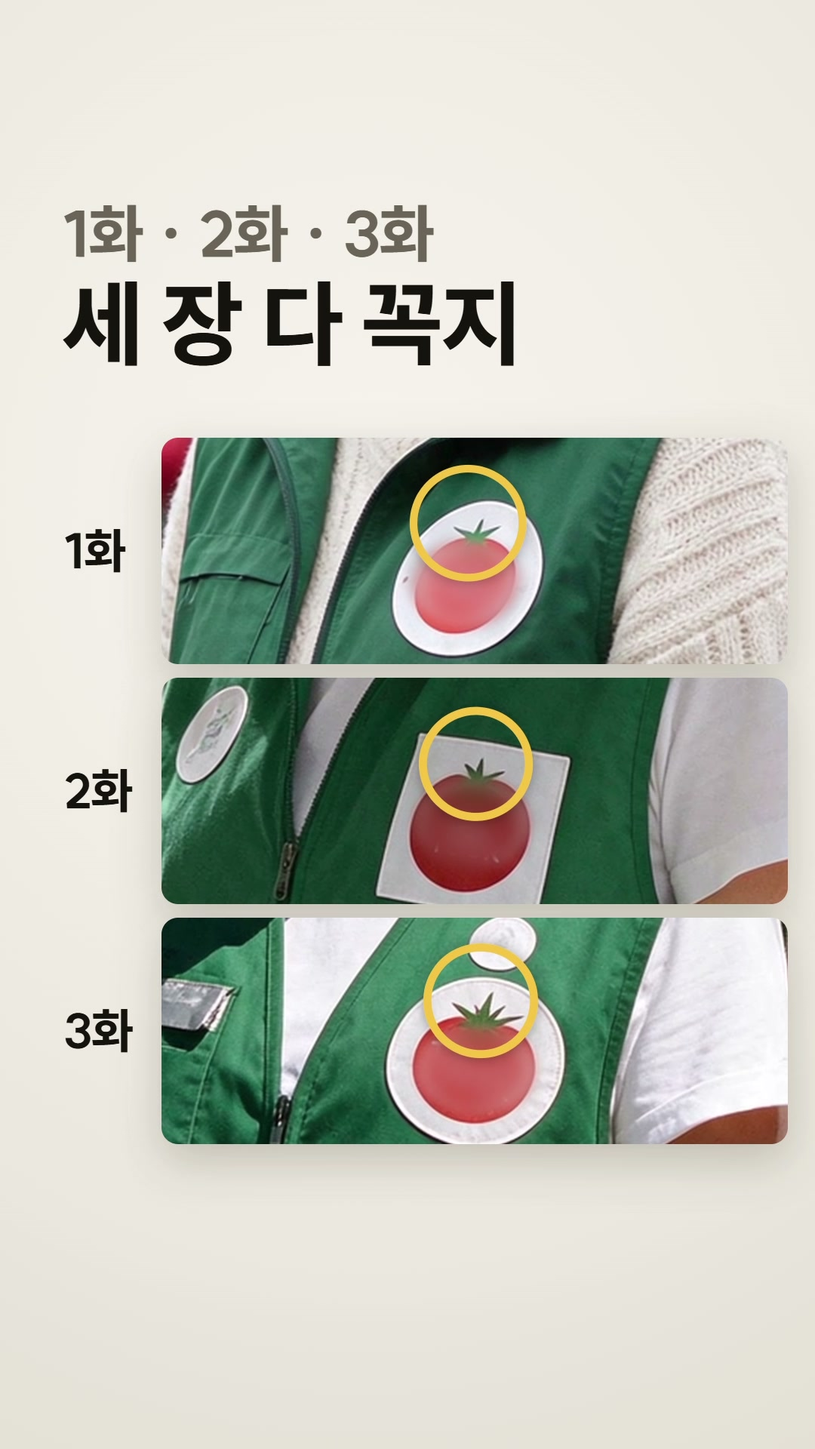
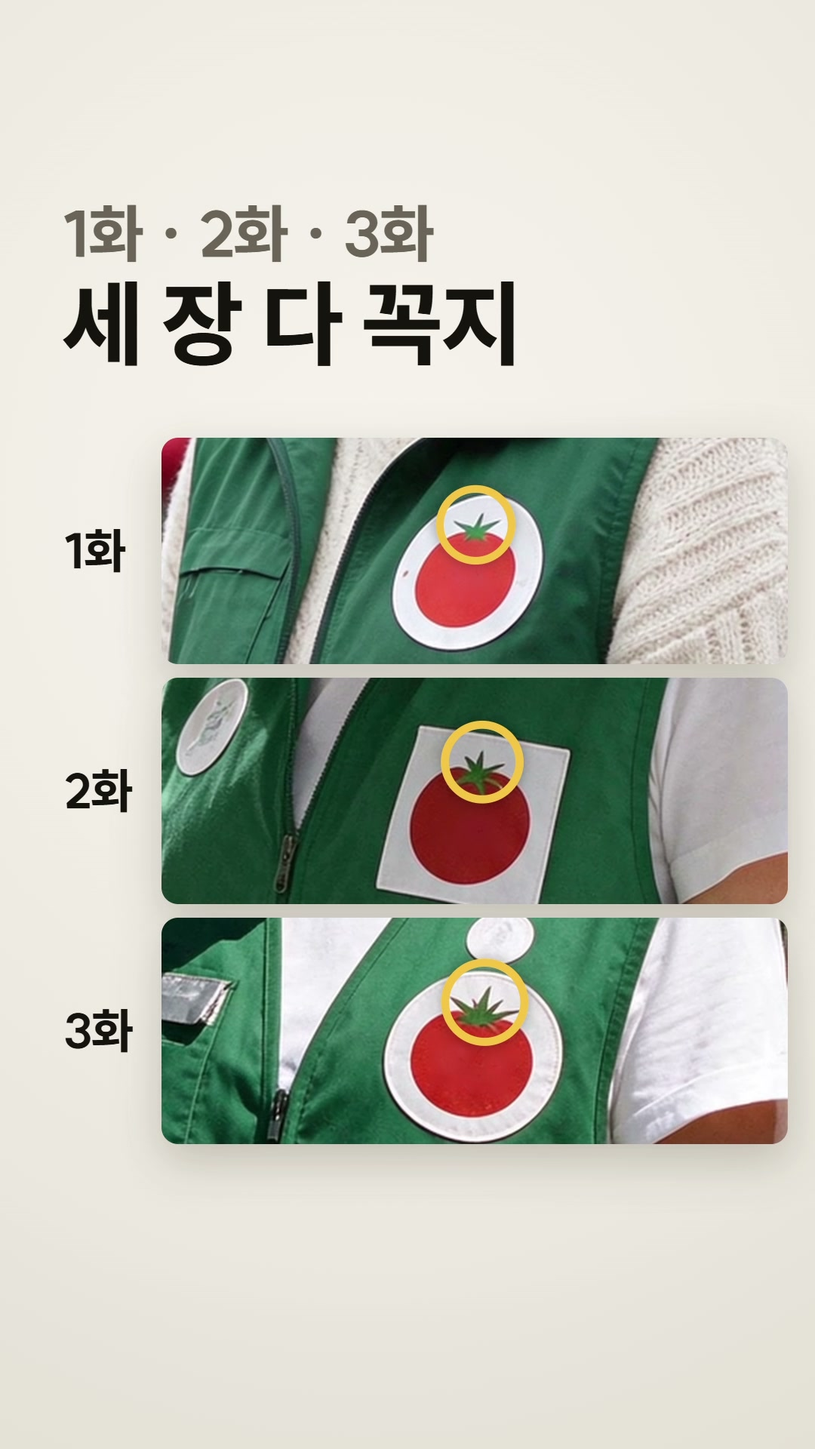
yuhobuilds Y73 최종 확인 미흡 고친 판 r12(07시 회차가 이어서): 마크 글자를 흐리지 않고 빨간 원 안의 글자 자리만 둘레 빨강으로 메워 끝 세 장 · 첫 패치가 매끈한 빨강으로 보인다. 끝 세 장이 고친 판으로 바뀌는 때를 마지막 말 뒤 33.0 · 33.5 · 34.0초로 벌리고 닫는 소리를 넣었다. 「토마토를 불러온 것 같아요」를 큰 글 두 줄로 키우고 저장 카드 줄을 한 박씩 당겨 레몬 줄이 1초 보인다. 앞서 카본 맹검의 제작 실수 넷(테 자리 · 지우개 막대 · 영어 중복 · 겹친 취소선)도 함께 올린다
관련 시험 건너뜀: 바쁜 PC에서 묶음 안 시간 제한으로 깨짐(자리 기다림 451초 · 15분 초과) — tests/바로올리기_관문.test.js 「공개 검사: 휴대폰…」 혼자 1/1 통과(138초), tests/검사이력.test.js 「컷연속성검사.py — 이력」 혼자 1/1 통과(30초). 이 커밋은 편 폴더(Remotion 원고 · 게시 기록 · 기획)와 장부 한 줄뿐이라 코드 시험 대상이 없다

diff --git a/docs/마케팅/yuhobuilds_토마토꼭지_20261120/remotion/src/y73/Film.tsx b/docs/마케팅/yuhobuilds_토마토꼭지_20261120/remotion/src/y73/Film.tsx
@@ -7,7 +7,7 @@ import { Audio } from '@remotion/media';
 import { AbsoluteFill, Img, interpolate, Sequence, staticFile, useCurrentFrame } from 'remotion';
 import { KO } from '../lib/fonts';
 import { clamp, IN_OUT, mix, OUT, prog } from '../lib/motion';
-import { BUTTER, DISC, INK, PAPER, STAGE, STEM, SUB } from './data';
+import { BUTTER, DISC, INK, PAPER, STAGE, STEM, STEM_R, SUB } from './data';
 import { BGM, LEN, SFX, T, VO } from './timeline';
 
 export const FPS = 30;
@@ -117,18 +117,22 @@ export const Strips: React.FC<{ t: number; at: [number, number, number]; rings: 
         const fy = (STEM[key].y + DISC[key].y) / 2 + 6 * Math.sin(t * 0.9 + i);
         const fx = STEM[key].x + 14 * Math.sin(t * 0.7 + i * 1.7);
         const rp = appear(t, rings[i], 0.28);
-        const wp = wipes ? interpolate(t, [wipes[i], wipes[i] + 0.22], [0, 100], { ...clamp, easing: IN_OUT }) : 0;
+        const wp = wipes ? interpolate(t, [wipes[i], wipes[i] + 0.32], [0, 100], { ...clamp, easing: IN_OUT }) : 0;
         const fk = FIXED[key];
         return (
           <React.Fragment key={key}>
             <div style={{ opacity: p, transform: `translateY(${(1 - p) * 60}px)` }}>
               <Pic src={`img/${key}.jpg`} x={STRIP.x} y={y} w={STRIP.w} h={STRIP.h} fx={fx} fy={fy} s={drift}>
-                {(k) => <Ring x={STEM[key].x} y={STEM[key].y} r={94} p={rp * (1 - wp / 100)} k={k} t={t} />}
+                {(k) => <Ring x={STEM[key].x} y={STEM[key].y} r={STEM_R[key]} p={rp * (1 - wp / 100)} k={k} t={t} />}
               </Pic>
               {wp > 0 && (
                 <Pic src={`img/${fk}.jpg`} x={STRIP.x} y={y} w={STRIP.w} h={STRIP.h} fx={DISC[fk].x + 14 * Math.sin(t * 0.7 + i * 1.7)} fy={DISC[fk].y - 40 + 6 * Math.sin(t * 0.9 + i)} s={drift} clip={`inset(0 ${100 - wp}% 0 0 round 22px)`} />
               )}
-              {wp > 0 && wp < 100 && <div style={{ position: 'absolute', left: STRIP.x + (STRIP.w * wp) / 100 - 6, top: y, width: 12, height: STRIP.h, background: BUTTER }} />}
+              {wp > 0 && wp < 100 && (
+                <div style={{ position: 'absolute', left: STRIP.x, top: y, width: STRIP.w, height: STRIP.h, overflow: 'hidden', borderRadius: 22 }}>
+                  <div style={{ position: 'absolute', left: (STRIP.w * wp) / 100 - 6, top: 0, width: 12, height: STRIP.h, background: BUTTER }} />
+                </div>
+              )}
             </div>
             {labels && (
               <div style={{ position: 'absolute', left: 84, top: y + STRIP.h / 2 - 40, fontFamily: KO, fontWeight: 800, fontSize: 64, color: INK, opacity: p, letterSpacing: -1.5 }}>{i + 1}화</div>
@@ -173,7 +177,7 @@ const StemScene: React.FC<{ t: number }> = ({ t }) => {
   return (
     <AbsoluteFill>
       <Pic src="img/p2.jpg" {...BIG} fx={STEM.p2.x + 12 * Math.sin(u * 1.4)} fy={STEM.p2.y + 40 + 10 * Math.cos(u * 1.1)} s={s * bump}>
-        {(k) => <Ring x={STEM.p2.x} y={STEM.p2.y} r={92} p={rp} k={k} t={t} />}
+        {(k) => <Ring x={STEM.p2.x} y={STEM.p2.y} r={STEM_R.p2} p={rp} k={k} t={t} />}
       </Pic>
       <Head
         t={t}
@@ -212,7 +216,7 @@ const PersonScene: React.FC<{ t: number }> = ({ t }) => {
 /** 8.61~11.91초 — 핵심 장면: 1화 · 2화 · 3화 세 장이 박마다 놓이고 꼭지마다 테. */
 const ThreeScene: React.FC<{ t: number }> = ({ t }) => (
   <AbsoluteFill>
-    <Strips t={t} at={[T.s1, T.s2, T.s3]} rings={[T.r1, T.r2, T.r3]} />
+    <Strips t={t} at={[T.s1, T.s2, T.s3]} rings={[T.r1, T.r2, T.r3]} push={1 + 0.09 * interpolate(t, [T.r3 + 0.2, T.prompt], [0, 1], { ...clamp, easing: IN_OUT })} />
     <Head
       t={t}
       lines={[
@@ -229,12 +233,9 @@ const PromptScene: React.FC<{ t: number }> = ({ t }) => {
   const card = appear(t, T.prompt, 0.35);
   const float = 6 * Math.sin(u * 1.3);
   const hl = [appear(t, T.h1, 0.3), appear(t, T.h2, 0.3), appear(t, T.h3, 0.3)];
-  const row = (en: string, ko: string, p: number) => (
-    <div style={{ display: 'flex', alignItems: 'baseline', gap: 26, marginTop: 22, opacity: 0.25 + 0.75 * p, transform: `translateX(${(1 - p) * -18}px)` }}>
-      <span style={{ fontFamily: KO, fontWeight: 700, fontSize: 44, color: SUB, width: 236, flexShrink: 0 }}>{en}</span>
-      <span style={{ fontFamily: KO, fontWeight: 900, fontSize: 86, color: INK, letterSpacing: -2 }}>
-        <Mark p={p}>{ko}</Mark>
-      </span>
+  const row = (ko: string, p: number) => (
+    <div style={{ marginTop: 20, opacity: p, transform: `translateX(${(1 - p) * -40}px)`, fontFamily: KO, fontWeight: 900, fontSize: 86, color: INK, letterSpacing: -2 }}>
+      <Mark p={p}>{ko}</Mark>
     </div>
   );
   return (
@@ -242,13 +243,13 @@ const PromptScene: React.FC<{ t: number }> = ({ t }) => {
       <div style={{ position: 'absolute', left: 64, top: 690 + float, width: 900, padding: '50px 52px 56px', boxSizing: 'border-box', borderRadius: 28, background: PAPER, boxShadow: '0 24px 70px rgba(40,30,15,0.18)', opacity: card, transform: `translateY(${(1 - card) * 50}px) scale(${1 + 0.02 * (u / 4.8)})` }}>
         <div style={{ fontFamily: KO, fontWeight: 700, fontSize: 42, color: SUB }}>1화를 다시 만들 때 AI한테 적은 말</div>
         <div style={{ fontFamily: KO, fontWeight: 600, fontSize: 44, color: INK, lineHeight: 1.3, marginTop: 18, marginBottom: 14 }}>
-          A flat printed mark — no stem,
+          A flat printed mark — <Mark p={hl[0]}>no stem</Mark>,
           <br />
-          no leaves, no fruit, no drawing.
+          <Mark p={hl[1]}>no leaves</Mark>, <Mark p={hl[2]}>no fruit</Mark>, no drawing.
         </div>
-        {row('no stem', '꼭지 없음', hl[0])}
-        {row('no leaves', '잎 없음', hl[1])}
-        {row('no fruit', '과일 없음', hl[2])}
+        {row('꼭지 없음', hl[0])}
+        {row('잎 없음', hl[1])}
+        {row('과일 없음', hl[2])}
       </div>
       <Head
         t={t}
@@ -274,7 +275,7 @@ const AgainScene: React.FC<{ t: number }> = ({ t }) => {
   return (
     <AbsoluteFill>
       <Pic src="img/p1b.jpg" {...BIG} fx={STEM.p1b.x + 26 * Math.sin(u * 1.9)} fy={fy + 6 * Math.cos(u * 1.2)} s={s}>
-        {(k) => <Ring x={STEM.p1b.x} y={STEM.p1b.y} r={close ? 52 : 62} p={rp} k={k} t={t} />}
+        {(k) => <Ring x={STEM.p1b.x} y={STEM.p1b.y} r={close ? 40 : 46} p={rp} k={k} t={t} />}
       </Pic>
       <Head
         t={t}
@@ -306,8 +307,9 @@ const WordScene: React.FC<{ t: number }> = ({ t }) => {
       <Head
         t={t}
         lines={[
-          { at: T.word, node: "'토마토'라는 말이", size: 96 },
-          { at: T.wordLine, node: '토마토를 불러온 것 같아요', size: 72, color: SUB },
+          { at: T.word, node: "'토마토'라는 말이", size: 84, color: SUB },
+          { at: T.wordLine, node: '토마토를', size: 108 },
+          { at: T.wordLine, node: '불러온 것 같아요', size: 108 },
         ]}
       />
     </AbsoluteFill>
@@ -388,7 +390,7 @@ const CardScene: React.FC<{ t: number }> = ({ t }) => {
     <div style={{ marginTop: 44 }}>
       <div style={{ opacity: pn, transform: `translateX(${(1 - pn) * -140}px)`, fontFamily: KO, fontWeight: 700, fontSize: 58, color: SUB, display: 'flex', alignItems: 'center', gap: 20 }}>
         <span style={{ fontWeight: 900, fontSize: 50 }}>✕</span>
-        <span style={{ textDecoration: 'line-through', textDecorationThickness: 5 }}>{no}</span>
+        <span>{no}</span>
       </div>
       <div style={{ opacity: py, transform: `translateX(${(1 - py) * -140}px)`, marginTop: 18, display: 'flex', alignItems: 'center', gap: 22, fontFamily: KO, fontWeight: 900, fontSize: 74, color: INK, letterSpacing: -2.5 }}>
         {swatch}
@@ -422,7 +424,7 @@ const EndScene: React.FC<{ t: number }> = ({ t }) => {
   const punch = (t >= T.e1 ? 1.15 : 1) * (1 + 0.08 * appear(t, T.last, 0.3));
   return (
     <AbsoluteFill>
-      <Strips t={t} at={[T.end + 0.05, T.end + 0.25, T.end + 0.45]} rings={[T.end + 0.6, T.end + 0.75, T.end + 0.9]} wipes={[T.e1, T.e2, T.e3]} push={punch} />
+      <Strips t={t} at={[T.end + 0.05, T.end + 0.25, T.end + 0.45]} rings={[T.end + 0.6, T.end + 0.75, T.end + 0.9]} wipes={[T.w1, T.w2, T.w3]} push={punch} />
       <Head
         t={t}
         lines={[

diff --git a/docs/마케팅/yuhobuilds_토마토꼭지_20261120/remotion/src/y73/timeline.ts b/docs/마케팅/yuhobuilds_토마토꼭지_20261120/remotion/src/y73/timeline.ts
@@ -49,15 +49,16 @@ export const T = {
   j3: 27.2,
   n91: 26.65, // 말 「아흔한」
   card: 28.16, // 저장할 한 장
-  x1: 28.88,
-  o1: 29.4,
-  x2: 29.9,
-  o2: 30.35,
+  x1: 28.4, // 11-20 최종 확인 미흡 뒤 한 박씩 당김 — 레몬 줄이 0.5초만 보이던 것을 1초로
+  o1: 28.88,
+  x2: 29.4,
+  o2: 29.9,
   end: 30.9, // 끝 — 꼭지 달린 세 장 → 하나씩 고친 판으로
   under: 31.99, // 말 「진한」
-  e1: 32.1,
-  e2: 32.34,
-  e3: 32.59,
+  e1: 32.1, // 원본 박자 자리 — 세 띠가 한 번 당겨 앉음
+  w1: 33.0, // 마지막 말 「동그라미요」가 끝나는 자리부터 한 장씩 고친 판으로(11-20 최종 확인 미흡 뒤 — 말 도중에 끝나던 바뀜을 늦추고 간격을 벌림)
+  w2: 33.5,
+  w3: 34.0,
   last: 34.28, // 원본 끝 자리 — 세 장이 한 번 당겨 앉음
 } as const;
 
@@ -108,15 +109,16 @@ export const SFX: { file: string; at: number; v: number }[] = [
   { file: 'swish', at: 24.7, v: 0.35 },
   { file: 'thud', at: 26.65, v: 0.6 },
   { file: 'swish', at: 28.16, v: 0.4 },
-  { file: 'tok', at: 28.88, v: 0.45 },
-  { file: 'tok', at: 29.4, v: 0.5 },
-  { file: 'tok', at: 29.9, v: 0.45 },
-  { file: 'tok', at: 30.35, v: 0.5 },
+  { file: 'tok', at: 28.4, v: 0.45 },
+  { file: 'tok', at: 28.88, v: 0.5 },
+  { file: 'tok', at: 29.4, v: 0.45 },
+  { file: 'tok', at: 29.9, v: 0.5 },
   { file: 'swish', at: 30.9, v: 0.45 },
-  { file: 'swish', at: 32.1, v: 0.4 },
-  { file: 'swish', at: 32.34, v: 0.4 },
-  { file: 'swish', at: 32.59, v: 0.45 },
-  { file: 'tick', at: 34.28, v: 0.45 },
+  { file: 'tick', at: 32.1, v: 0.35 },
+  { file: 'swish', at: 33.0, v: 0.4 },
+  { file: 'swish', at: 33.5, v: 0.42 },
+  { file: 'swish', at: 34.0, v: 0.45 },
+  { file: 'thud', at: 34.32, v: 0.6 },
 ];
 
 /** 배경음: 퀴즈120_키즈파티(65초, 빈 마디 없음) 4초부터 35초 · 지난 두 편(Y51 시티팝_147 · Y66 따뜻_118)과 다른 곡 */

diff --git a/docs/마케팅/yuhobuilds_토마토꼭지_20261120/remotion/src/y73/data.ts b/docs/마케팅/yuhobuilds_토마토꼭지_20261120/remotion/src/y73/data.ts
@@ -8,18 +8,19 @@ export const SUB = '#6B6458';
 export const BUTTER = '#F5C445';
 export const PAPER = '#FBF9F5';
 
-/** 1008px 판 안의 꼭지 자리(가운데)와 원판 가운데. 눈으로 잰 값. */
+/** 1008px 판 안의 꼭지 자리(잎 끝을 감싼 네모의 가운데)와 빨간 원판 가운데. 10px 격자로 다시 잰 값(11-20 맹검 뒤). */
+export const STEM_R: Record<string, number> = { p1: 64, p2: 68, p3: 72, p1b: 30 };
 export const STEM: Record<string, { x: number; y: number }> = {
-  p1: { x: 509, y: 416 },
-  p2: { x: 510, y: 406 },
-  p3: { x: 512, y: 408 },
-  p1b: { x: 524, y: 432 },
+  p1: { x: 521, y: 428 },
+  p2: { x: 520, y: 415 },
+  p3: { x: 522, y: 420 },
+  p1b: { x: 530, y: 435 },
 };
 export const DISC: Record<string, { x: number; y: number }> = {
-  p1: { x: 506, y: 508 },
-  p2: { x: 506, y: 505 },
-  p3: { x: 506, y: 512 },
-  p1b: { x: 508, y: 498 },
+  p1: { x: 505, y: 515 },
+  p2: { x: 500, y: 518 },
+  p3: { x: 500, y: 519 },
+  p1b: { x: 504, y: 502 },
   f1: { x: 508, y: 498 },
   f2: { x: 509, y: 440 },
   f3: { x: 500, y: 505 },

diff --git a/docs/마케팅/yuhobuilds_토마토꼭지_20261120/기획.md b/docs/마케팅/yuhobuilds_토마토꼭지_20261120/기획.md
@@ -16,7 +16,7 @@
 - **형식:** 원본 https://www.youtube.com/shorts/NoCQgkUXoQU · 같은분야 · 43.5초 · 26컷 · 박자 33. 위에 결과 그림, 아래에 말하는 사람인 두 칸 꼴. 우리는 진행자 없이 위 큰 글 + 실제 그림이 화면을 채운다(아래 「인물」).
 - **댓글 놀이:** 「AI가 엉뚱하게 알아들은 내 한마디는?」
 - **길이:** 원본 43.5초 → 우리 35.0초(81%). 말(범수 열한 줄)이 27초라 원본 길이 그대로면 말 없는 자리가 여럿 생긴다 — 원본 컷 · 박자를 35/43.5배로 줄인 자리에 장면 바뀜을 둔다(오마주.json 「다르게」 길이).
-- **함정:** 그림 도구 이름 · 웹드라마 제목 · 인물 이름 · 마크 글자(패치의 두 낱말)는 영상 · 글에 없다(실화 창고 「뺄 것」) — 패치 글자는 타원으로 흐리게 했다. 「꼭지 없음 · 잎 없음 · 과일 없음」은 1화 다시 만든 판 한 장의 말이다(세 장 모두가 아니다). 고친 그림은 「패치만 고치는 고치기」로 만든 것이라 「진한 빨강으로 바꿨더니 꼭지가 사라졌다」로 말하지 않는다. 27크레딧은 패치를 고친 세 장(9 · 9 · 9)이다. 91곳은 그림 지시문 56개의 84곳과 컷표 7곳을 합친 수다.
+- **함정:** 그림 도구 이름 · 웹드라마 제목 · 인물 이름 · 마크 글자(패치의 두 낱말)는 영상 · 글에 없다(실화 창고 「뺄 것」) — 패치 글자는 지우고 둘레 빨강으로 메웠다(r12). 「꼭지 없음 · 잎 없음 · 과일 없음」은 1화 다시 만든 판 한 장의 말이다(세 장 모두가 아니다). 고친 그림은 「패치만 고치는 고치기」로 만든 것이라 「진한 빨강으로 바꿨더니 꼭지가 사라졌다」로 말하지 않는다. 27크레딧은 패치를 고친 세 장(9 · 9 · 9)이다. 91곳은 그림 지시문 56개의 84곳과 컷표 7곳을 합친 수다.
 - **한 문장:** 「AI 그림 색은 '토마토색' 말고 '진한 빨강 동그라미'처럼 — 색과 모양으로 적어요」
 
 ## 실화(11-17~18 · 결정 11-18 「Still」 마크 색 행)
@@ -24,7 +24,7 @@
 - PULSE 웹드라마 연재의 등장인물 기준 그림(AI로 만든 가상 인물)에서 조끼 패치의 마크를 「tomato-red disc」로 적었다. 1화(11-17) · 2화 · 3화 기준 그림 모두 빨간 원 위에 초록 꼭지와 잎이 붙었다(`ref/후보/_버림/` 그림 셋 — 공용 작업본, git 밖).
 - 1화는 꼭지 달린 처음 그림을 바탕으로 패치만 바꾸는 고치기로 다시 구웠다. 지시문에 「A flat printed mark - no stem, no leaves, no fruit, no drawing.」을 적었고, 모양 참고로 넣은 깡통 딱지 그림(`E01 ref/소품_상자.png`)은 꼭지 없는 빨간 원이었다. 그래도 작은 꼭지가 남았다(`E01_TheQueue_인물_로지_꼭지남음.png`, 커밋 ff8d3bf4b9 지시문 원문).
 - 패치만 고치는 고치기로 1화(9크레딧) · 2화 · 3화(9 · 9)를 바로잡았다 — 27크레딧(커밋 59565cade0 · 2022655578). 2 · 3화는 네모 패치 · 덧붙은 배지 · 글씨 · 반사 띠도 함께 고쳤다. 같은 뿌리를 막으려고 세 화의 컷표와 그림 지시문에서 「tomato-red」 91곳을 「deep red」로 바꿨다.
-- 화면의 그림은 모두 그 실제 그림이다. 패치 확대 일곱 장은 원본 420px 자리를 잘라 1008px로 키우고 마크 글자 자리만 흐리게 했다(`remotion/public/img/`, 만드는 스크립트는 git 밖).
+- 화면의 그림은 모두 그 실제 그림이다. 패치 확대 일곱 장은 원본 420px 자리를 잘라 1008px로 키우고 마크 글자 자리만 둘레 빨강으로 메웠다(r12 — 처음에는 흐리게 했는데 원 가운데가 분홍으로 번져 최종 확인에서 미흡이었다)(`remotion/public/img/`, 만드는 스크립트는 git 밖).
 
 ## 기승전결
 
@@ -134,17 +134,28 @@ r2 첫 렌더(34초)를 맥락 없는 시험관 넷에게 한 번 보였다(답 
 | r3 | 굳음 16.67~17.92초(다시 만든 1화 패치 — 검사가 조끼를 사람으로 읽음) | r4: 놓인 뒤 바로 다가가며 판 안을 크게 움직임 |
 | r5 | 나란히 첫 2초(우리 박자 0) · 박자 53% | r6~r8: 원본 박자 자리(1.3 · 1.8 · 4.7 · 15.65 · 16.0 · 16.7 · 19.9 · 25.4 · 25.8 · 27.2 · 32.1초)에 당겨 앉음 · 목록 넘김, 빠르게 흐르던 목록(박자 여덟 개를 덧붙임)을 멈춤 → 61% |
 | r9 | 걸림 없음 · 나란히 다섯 다 맞음 | 끝 당김을 띠 안 그림에만(이름표 「3화」가 안전선 1428을 9px 넘던 것) |
+| r10 | 굳음 8.62~11.92초 가운데 10.21초부터(맹검 뒤 테를 작게 해 띠 안 움직임이 줄었다) | r11: 테가 다 앉은 10.85초부터 세 띠를 천천히 9% 당김 → 걸림 없음 · 나란히 다섯 다 맞음(박자 61%) |
+| r12 | 걸림 없음 · 나란히 다섯 다 맞음(박자 67% — 저장 카드 줄을 한 박씩 당기고 끝 바뀜을 33.0 · 33.5 · 34.0초로 옮김) | 최종 확인 미흡 고침(아래 「최종 확인 미흡」) |
 
 ## 미학 맹검(카본 · 한 번 · 권고)
 
-(맹검 결과를 기다리는 중)
+r9를 카본 맹검에 한 번 보였다. 여섯 순간 모두 기각이다(결과: 공용 작업본 `.tmp/미학맹검/맹검-202611200941-p75692/결과.md`, git 밖 · 요약 [게시/미학맹검.json](게시/미학맹검.json)). 제작 실수만 r10에서 고쳤고 다시 맹검하지 않았다.
+
+| 순간 | 점수 | 짚은 것 | 처리 |
+|---|---|---|---|
+| 01 첫 장면(1.0초) | 4 | 제목과 사진이 처음부터 서 있다 · 위 제목 + 아래 상자 틀 · 「토마토색」 강조가 약하다 | 그대로 — 훅 글은 첫 칸부터 읽혀야 하고, 사진은 1.3 · 1.8초에 당겨 앉는다 |
+| 02 세 장(10.8초) | 3 | 노란 테가 꼭지를 짚지 못한다(1화는 빨간 원 전체, 2 · 3화는 위로 치우침) · 제목이 툭 켜진다 · 표 같은 틀 | **고침:** 꼭지 자리를 10px 격자로 다시 재고, 테 크기를 그림마다 잎 끝에 맞췄다(1화 64 · 2화 68 · 3화 72px, 다시 만든 1화 46 · 40px). 제목과 틀은 그대로 |
+| 03 지시문 카드(14.5초) | 3 | 영어(no stem …)가 문장과 왼쪽 표에 두 번 나온다 · 글이 작다 · 아직 안 칠한 줄이 흐린 회색 얼룩 같다 · 세 줄 형광펜이 평평하다 | **고침:** 왼쪽 영어 표를 빼고, 문장 안 그 낱말에 한국어 줄과 같은 때 형광펜을 칠한다. 한국어 줄은 칠할 때 나타난다 |
+| 04 그림 값(23.8초) | 3 | 「27크레딧」이 툭 켜진다 · 영수증 틀 · 체크가 미리 켜져 있다 | 그대로 — 체크는 21.95~22.65초에 하나씩 켜지고, 이 순간은 그 뒤다 |
+| 05 저장 카드(29.8초) | 3 | 위 제목 + 아래 상자 틀 · 빈 자리 · 머리글이 본문보다 작다 · ✕와 회색 글 위에 취소선이 겹친다 | **고침:** 취소선을 뺐다(✕와 회색 글만). 틀과 머리글 크기는 그대로 |
+| 06 끝(33.6초) | 4 | 3화 테 위가 띠 테두리에 잘린다 · 왼쪽 아래에 노란 막대 찌꺼기 · 3화가 단컷처럼 바뀐다 · 끝 1.5초가 멈춰 있다 · 「진한 빨강」에 노란 형광펜 | **고침:** 테가 띠 안에 든다(위 02와 같은 고침). 지우개 막대를 띠의 둥근 모서리 안으로 잘랐다. 지우개 빠르기 · 끝 당김 · 형광펜 색은 그대로 |
 
 ## 만들기
 
 - **목소리:** 범수(씨앗 1123) — `음성/계획.json` · `음성/범수/`. 사실 검수 뒤 열한 줄(288자)을 샀고, 이해 시험 뒤 V1 · V2 · V4 · V7 · V8(170자)을 다시 샀다.
 - **소리:** 배경음 보유곡 `퀴즈120_키즈파티` 4~39초(빈 마디 없는 곡 · 지난 두 편 Y51 시티팝_147 · Y66 따뜻_118과 다른 곡), 끝 0.9초는 줄여 닫는다. 효과음(휙 · 쿵 · 톡 · 틱)은 Y51에서 가져와 바뀌는 자리에 둔다. 음악층 꺼짐 0 · 얇아짐 0 · 바닥차 11.8dB(r5에서 13.4dB라 음량을 올림).
-- **그림:** 실제 기준 그림 일곱 장(꼭지 붙은 판 넷 · 고친 판 셋)의 가슴 패치 420px 자리를 잘라 1008px로 키웠고, 2화 · 1화 전신 둘을 1080 × 1920으로 줄였다. 마크 글자는 타원 자리만 흐리게 했다(만드는 스크립트는 git 밖).
-- **렌더:** r1 첫 판 → r2 첫 화면 · 프롬프트 칸 · 저장 카드 키움(이해 시험) → r3 이해 시험 반영(경고로 열기 · 2화 전신 · 한국어 큰 줄 · 그림 값 영수증 · 앞으로 그릴 장면 · 끝에 고친 판, 35초로) → r4 최종본 검사 굳음 → r5 배경음 올림 · 12Mbps 고정 → r6~r8 나란히 박자 → r9 끝 당김. 최종본은 r9다.
+- **그림:** 실제 기준 그림 일곱 장(꼭지 붙은 판 넷 · 고친 판 셋)의 가슴 패치 420px 자리를 잘라 1008px로 키웠고, 2화 · 1화 전신 둘을 1080 × 1920으로 줄였다. 마크 글자는 빨간 원 안의 글자 자리만 둘레 빨강으로 메웠다(r12)(만드는 스크립트는 git 밖).
+- **렌더:** r1 첫 판 → r2 첫 화면 · 프롬프트 칸 · 저장 카드 키움(이해 시험) → r3 이해 시험 반영(경고로 열기 · 2화 전신 · 한국어 큰 줄 · 그림 값 영수증 · 앞으로 그릴 장면 · 끝에 고친 판, 35초로) → r4 최종본 검사 굳음 → r5 배경음 올림 · 12Mbps 고정 → r6~r8 나란히 박자 → r9 끝 당김 → r10 미학 맹검의 제작 실수 넷 → r11 세 장 띠 굳음 → r12 최종 확인 미흡(끝 세 장 마크 색 · 끝 바뀜 때 · 작은 글 · 레몬 줄). 최종본은 r12다.
 - **올림 화질:** 음량 마감(−14.5 LUFS · −1.5 dBFS) 전에 영상을 12Mbps CBR(H.264 · yuv420p)로 다시 담았다 — 처음 렌더는 밝은 종이 무대라 평균 5.9Mbps로 나왔다.
 - **가져갈 프롬프트:** [게시/요청문.txt](게시/요청문.txt)를 맥락 없는 새 AI에 실제로 돌려 봤다(위 「가져갈 것 시험」). synk.im/prompts에는 올리지 않았다 — 공개에 드는 카본 검수 묶음을 이 회차의 맹검과 함께 받지 못했다(카본은 한 번에 한 대화만 돈다). 요청문 전문은 캡션 · 링크드인 · 티스토리에 있다(장부 머리말 「공개가 막히면 링크 없이」).
 
@@ -160,3 +171,14 @@ r2 첫 렌더(34초)를 맥락 없는 시험관 넷에게 한 번 보였다(답 
 | 29.9~30.9 | 작은 흠 | 「✕ 레몬색 네모 → 밝은 노랑 네모」 줄이 0.5초만 보이고 사라진다. | 카드를 조금 더 두거나 레몬 줄을 뺀다. |
 
 독립 검수: claude-fable-5-2 · 「고쳐서 내야 한다」(P1 1: 끝 세 장 고친 마크가 흐린 분홍이라 「진한 빨강」과 다르고 닫는 힘이 약함).
+**고친 판 r12(11-20 07시 회차가 이어서 고침):**
+
+| 초 | 고친 것 |
+|---|---|
+| 32.1~35.0 | 마크 글자를 흐리지 않고, 빨간 원 안의 글자 자리만 둘레 빨강으로 메웠다(꼭지 붙은 판 넷 · 고친 판 셋 · 2화 전신 모두). 끝 세 장의 원이 매끈한 빨강으로 보인다. 세 장이 고친 판으로 바뀌는 때를 마지막 말 「동그라미요」가 끝나는 33.0초부터 33.5 · 34.0초로 한 장씩 벌렸고, 바뀜 길이는 0.22초에서 0.32초로 늘렸다. 34.32초에 닫는 소리 한 방을 넣었다. |
+| 0~5.7 · 8.6~11.9 | 같은 방식으로 다시 칠해 가운데 자국과 흰 점이 없어졌다. |
+| 20.4~21.7 | 「토마토를 / 불러온 것 같아요」를 큰 검은 글 두 줄(108px)로 키우고, 윗줄 「'토마토'라는 말이」를 작은 회색 줄로 바꿨다. |
+| 28.4~30.9 | 저장 카드 네 줄을 한 박씩 당겨 레몬 줄이 1초 보인다. |
+
+최종본 검사 걸림 없음 · 나란히 다섯 다 맞음(박자 67%) · 올리기 전 검사 고칠 것 0. 최종 확인 예약이 다시 본다.
+

diff --git a/docs/마케팅/기획장부/yuhobuilds.md b/docs/마케팅/기획장부/yuhobuilds.md
@@ -518,5 +518,5 @@
 
 | 번호 | 기획 | 갈래 | 상태 | 편 폴더 | 근거 · 첫 2초 · 댓글 놀이 · 조건 |
 |---|---|---|---|---|---|
-| Y73 | 「'토마토색 동그라미'라고 했더니 — 세 장 다 꼭지가 달렸다」 — AI 그림에 마크 색을 「토마토색 동그라미」로 적었더니, 「꼭지 · 잎 · 과일 없음」까지 적어도 세 화의 기준 그림 모두 빨간 원 위에 초록 꼭지가 붙었다. 꼭지 지우기에 27크레딧을 쓰고, 지시문 59개의 「토마토색」 91곳을 「진한 빨강」으로 바꿨다 | 우리 실화 · 유입 · 실화 + 남도 겪나 · 원본 같은분야 | **완성(관문 시험 — 11-20 07시 회차 · 슬롯 11-24(월) 21:00 · 35.0초. 올리기 전 검사 「고칠 것」 0 · 원본과 나란히 다섯 다 맞음(박자 61% · 길이는 「다르게」) · 이해 시험 넷이 한 문장을 다 맞힘(이해 4 · 3 · 4 · 4, 재미 3 · 3 · 3 · 3) · 둘 넘게 같이 짚은 일곱 중 고친 것 일곱(말 순서는 부분) · 장면 심사 넘지 못함(관문 시험이라 그 장면으로 키움) · 사실 검수 틀림 1 · 오해 3 모두 고침)** · 앞 상태: 제작 중(11-20 07시 회차 — 슬롯 11-24(월) 21:00. 11-24 칸에 두었던 Y45가 사실 확인에서 빠져 가장 최근 스캔의 순위 1로 채움. 실제 그림 세 장 · 지시문 원문 확인: 「꼭지 · 잎 · 과일 없음」은 1화를 다시 구운 한 장에만 적었고, 2 · 3화는 「토마토색」만 적은 판이다) · 앞 상태: 순위 1(11-19 스캔 · Fable — 슬롯 12-02(수) 21:00 · 끝까지 5 · 재미 5 · 저장 4 · 볼 이유 4 · 같아 보임 부분 · 판정 만든다 · **네 계정 가운데 가장 끝까지 볼 후보** · **먼저 셋:** ⑴ 핵심 칸의 손이 정장 소매라 혼자 만드는 사람의 기록과 어긋난다 ⑵ 가장 놀라운 대목(「없음」이라고 적어도 꼭지가 붙었다)이 시안 두 장에 없다 — 지시문 화면을 한 칸 넣는다 ⑶ 27크레딧과 91곳은 한 화면에 하나씩만) | [`yuhobuilds_토마토꼭지_20261120`](../yuhobuilds_토마토꼭지_20261120/기획.md) | **무엇으로 이기나:** 한 장면 — 꼭지 달린 빨간 동그라미 셋(웃음). **가져갈 것(요청문 한 줄):** 「AI 그림의 색은 물건 이름(토마토색, 레몬색) 대신 '진한 빨강 동그라미'처럼 색과 모양으로 적는다」. **실화:** 창고 11-18 「토마토색」 줄(커밋 59565cade0 · 2022655578). 같은 갈래의 11-18 「고등어 한 쌍 → 세 마리」 줄을 한 칸으로 붙일 수 있다. **남도 겪나:** 「AI 그림 색깔 · AI 이미지 프롬프트 · 그림 AI 엉뚱」 14일 안 같은 문제(말 한마디가 그림을 바꾼다)의 튄 편 하나 — 아래 원본. **원본** https://www.youtube.com/shorts/NoCQgkUXoQU · 같은분야 · 「포스터 만들때, AI한테 '예쁘게'라고만 하지 마세요」 8.7만 · 평소의 41.89배 · 44초 · 11-11. **틀:** 검증된 틀 ① 「맡겼더니 → 실제 화면 → 한 줄」 꼴. **첫 2초:** 모니터에 꼭지 달린 빨간 원 셋, 이마를 짚고 웃는 사람, 머리 글 「'토마토색 동그라미'라고 했더니 / 세 장 다 꼭지가 달렸다」. **시안** `Y73a_211341.png` · `Y73b_211502.png` · 핵심 칸 haiku 「토마토에 빗금을 긋고 빨간 동그라미를 가리키며, 색을 물건 이름 대신 '진한 빨강 동그라미'처럼 말하라는 장면」 — 기획과 같은 말. **댓글 놀이:** AI가 엉뚱하게 알아들은 내 한마디는? 👇 |
+| Y73 | 「'토마토색 동그라미'라고 했더니 — 세 장 다 꼭지가 달렸다」 — AI 그림에 마크 색을 「토마토색 동그라미」로 적었더니, 「꼭지 · 잎 · 과일 없음」까지 적어도 세 화의 기준 그림 모두 빨간 원 위에 초록 꼭지가 붙었다. 꼭지 지우기에 27크레딧을 쓰고, 지시문 59개의 「토마토색」 91곳을 「진한 빨강」으로 바꿨다 | 우리 실화 · 유입 · 실화 + 남도 겪나 · 원본 같은분야 | **완성(관문 시험 — 11-20 07시 회차 · 슬롯 11-24(월) 21:00 · 35.0초. 올리기 전 검사 「고칠 것」 0 · 원본과 나란히 다섯 다 맞음(박자 61% · 길이는 「다르게」) · 이해 시험 넷이 한 문장을 다 맞힘(이해 4 · 3 · 4 · 4, 재미 3 · 3 · 3 · 3) · 둘 넘게 같이 짚은 일곱 중 고친 것 일곱(말 순서는 부분) · 장면 심사 넘지 못함(관문 시험이라 그 장면으로 키움) · 사실 검수 틀림 1 · 오해 3 모두 고침 · 미학 맹검 기각 6(권고) 가운데 제작 실수 넷 고침 · 최종 확인 미흡(11-20 13:36 — 끝 세 장 마크가 흐린 분홍) 고친 판 r12)** · 앞 상태: 제작 중(11-20 07시 회차 — 슬롯 11-24(월) 21:00. 11-24 칸에 두었던 Y45가 사실 확인에서 빠져 가장 최근 스캔의 순위 1로 채움. 실제 그림 세 장 · 지시문 원문 확인: 「꼭지 · 잎 · 과일 없음」은 1화를 다시 구운 한 장에만 적었고, 2 · 3화는 「토마토색」만 적은 판이다) · 앞 상태: 순위 1(11-19 스캔 · Fable — 슬롯 12-02(수) 21:00 · 끝까지 5 · 재미 5 · 저장 4 · 볼 이유 4 · 같아 보임 부분 · 판정 만든다 · **네 계정 가운데 가장 끝까지 볼 후보** · **먼저 셋:** ⑴ 핵심 칸의 손이 정장 소매라 혼자 만드는 사람의 기록과 어긋난다 ⑵ 가장 놀라운 대목(「없음」이라고 적어도 꼭지가 붙었다)이 시안 두 장에 없다 — 지시문 화면을 한 칸 넣는다 ⑶ 27크레딧과 91곳은 한 화면에 하나씩만) | [`yuhobuilds_토마토꼭지_20261120`](../yuhobuilds_토마토꼭지_20261120/기획.md) | **무엇으로 이기나:** 한 장면 — 꼭지 달린 빨간 동그라미 셋(웃음). **가져갈 것(요청문 한 줄):** 「AI 그림의 색은 물건 이름(토마토색, 레몬색) 대신 '진한 빨강 동그라미'처럼 색과 모양으로 적는다」. **실화:** 창고 11-18 「토마토색」 줄(커밋 59565cade0 · 2022655578). 같은 갈래의 11-18 「고등어 한 쌍 → 세 마리」 줄을 한 칸으로 붙일 수 있다. **남도 겪나:** 「AI 그림 색깔 · AI 이미지 프롬프트 · 그림 AI 엉뚱」 14일 안 같은 문제(말 한마디가 그림을 바꾼다)의 튄 편 하나 — 아래 원본. **원본** https://www.youtube.com/shorts/NoCQgkUXoQU · 같은분야 · 「포스터 만들때, AI한테 '예쁘게'라고만 하지 마세요」 8.7만 · 평소의 41.89배 · 44초 · 11-11. **틀:** 검증된 틀 ① 「맡겼더니 → 실제 화면 → 한 줄」 꼴. **첫 2초:** 모니터에 꼭지 달린 빨간 원 셋, 이마를 짚고 웃는 사람, 머리 글 「'토마토색 동그라미'라고 했더니 / 세 장 다 꼭지가 달렸다」. **시안** `Y73a_211341.png` · `Y73b_211502.png` · 핵심 칸 haiku 「토마토에 빗금을 긋고 빨간 동그라미를 가리키며, 색을 물건 이름 대신 '진한 빨강 동그라미'처럼 말하라는 장면」 — 기획과 같은 말. **댓글 놀이:** AI가 엉뚱하게 알아들은 내 한마디는? 👇 |
 | Y74 | 「AI한테 발표 장표 맡겼더니 "촌스러워" — '한 장에 한 문장' 하랬더니 장을 비웠다」 — AI가 만든 발표 장표가 모든 장이 같은 틀이었다(점 · 선 도표 6장, 같은 크기 큰 숫자 7장). 「촌스러워 … AI 티」라는 말을 듣고 「한 장에 한 문장」으로 고치라고 하자, AI는 글을 줄이는 대신 장을 비웠다. 참고 시안만큼 내용을 채운 셋째 판에서 승인이 났다 | 우리 실화 · 권위 · 실화 + 남도 겪나 + X · 원본 같은분야 | 순위 2(11-19 스캔 · Fable — 슬롯 12-05(토) 21:00 · 끝까지 3 · 재미 3 · 저장 4 · 볼 이유 4 · 같아 보임 부분(제목이 12-01 Y64와 같은 「맡겼더니」 꼴) · 판정 조건부 · **네 계정 가운데 가장 약한 후보** · **조건 셋:** ⑴ 60초 안에 판이 셋이고 반전이 둘이다 — 「한 문장 → 빈 장」 하나로 좁힌다 ⑵ 핵심 칸이 빈 화면과 머리 쥔 사람뿐이라 그림만으로는 무슨 일인지 모른다 — 꽉 찬 장 · 빈 장 · 셋째 판을 나란히 보여 주고, 「촌스러워」를 누가 했는지 밝힌다 ⑶ 점검표 네 줄은 끝 한 장에 모으고, 제목을 「맡겼더니」 꼴에서 바꾼다) | | **무엇으로 이기나:** 반전 — 「한 장에 한 문장」이 텅 빈 장으로. **한 문장:** 「AI에게 장표를 맡길 땐 장마다 3초 안에 말이 읽히는지부터 본다」. **가져갈 것(점검표):** 「장마다 3초 안에 그 장의 말을 맞히나 · 빈 칸이 화면 절반을 넘지 않나 · 큰 숫자는 한 덱에 세 번 안팎인가 · 장 제목만 이어 읽어도 이야기가 되나」. **실화:** 창고 11-19 「발표 장표」 줄(커밋 d26b2fe795 · b2c97ee7bc). **남도 겪나:** 「AI PPT · AI 발표자료 · 피피티 AI」 14일 안 AI로 발표 장표를 만드는 편 둘이 튐(jFgMGaRDwUE 평소의 12.69배 · hANsN1LJhlI 34.58배). X x.com/i/status/2122610525867831563(11-17 · ego로 열어 확인 — 조회 9,722 · 좋아요 75 · 북마크 64, 「코딩 AI에 바로 만들라고 하면 딱 봐도 AI가 만든 티가 난다」 — 그록 보고 숫자보다 작았다). **원본** https://www.youtube.com/shorts/jFgMGaRDwUE · 같은분야 · 「ChatGPT Prompt to Make a Great PPT for Class」 1.4만 · 평소의 12.69배 · 39초 · 11-13. **뺄 것:** 발표의 쓰임(지원사업 · 심사 이름), 회사 숫자. **첫 2초:** 똑같은 장 열두 개가 깔린 노트북 앞에서 얼굴을 찡그린 사람, 머리 글 「AI한테 발표 장표 맡겼더니 / "촌스러워, AI 티 나"」. **시안** `Y74a_211341.png` · `Y74b_211515.png` · 핵심 칸 haiku 「'한 장에 한 문장'을 따랐더니 장을 통째로 비웠다는 실패 사례」 — 기획과 같은 말. **댓글 놀이:** AI가 만든 장표에서 제일 먼저 티 나는 곳은? 👇 |
